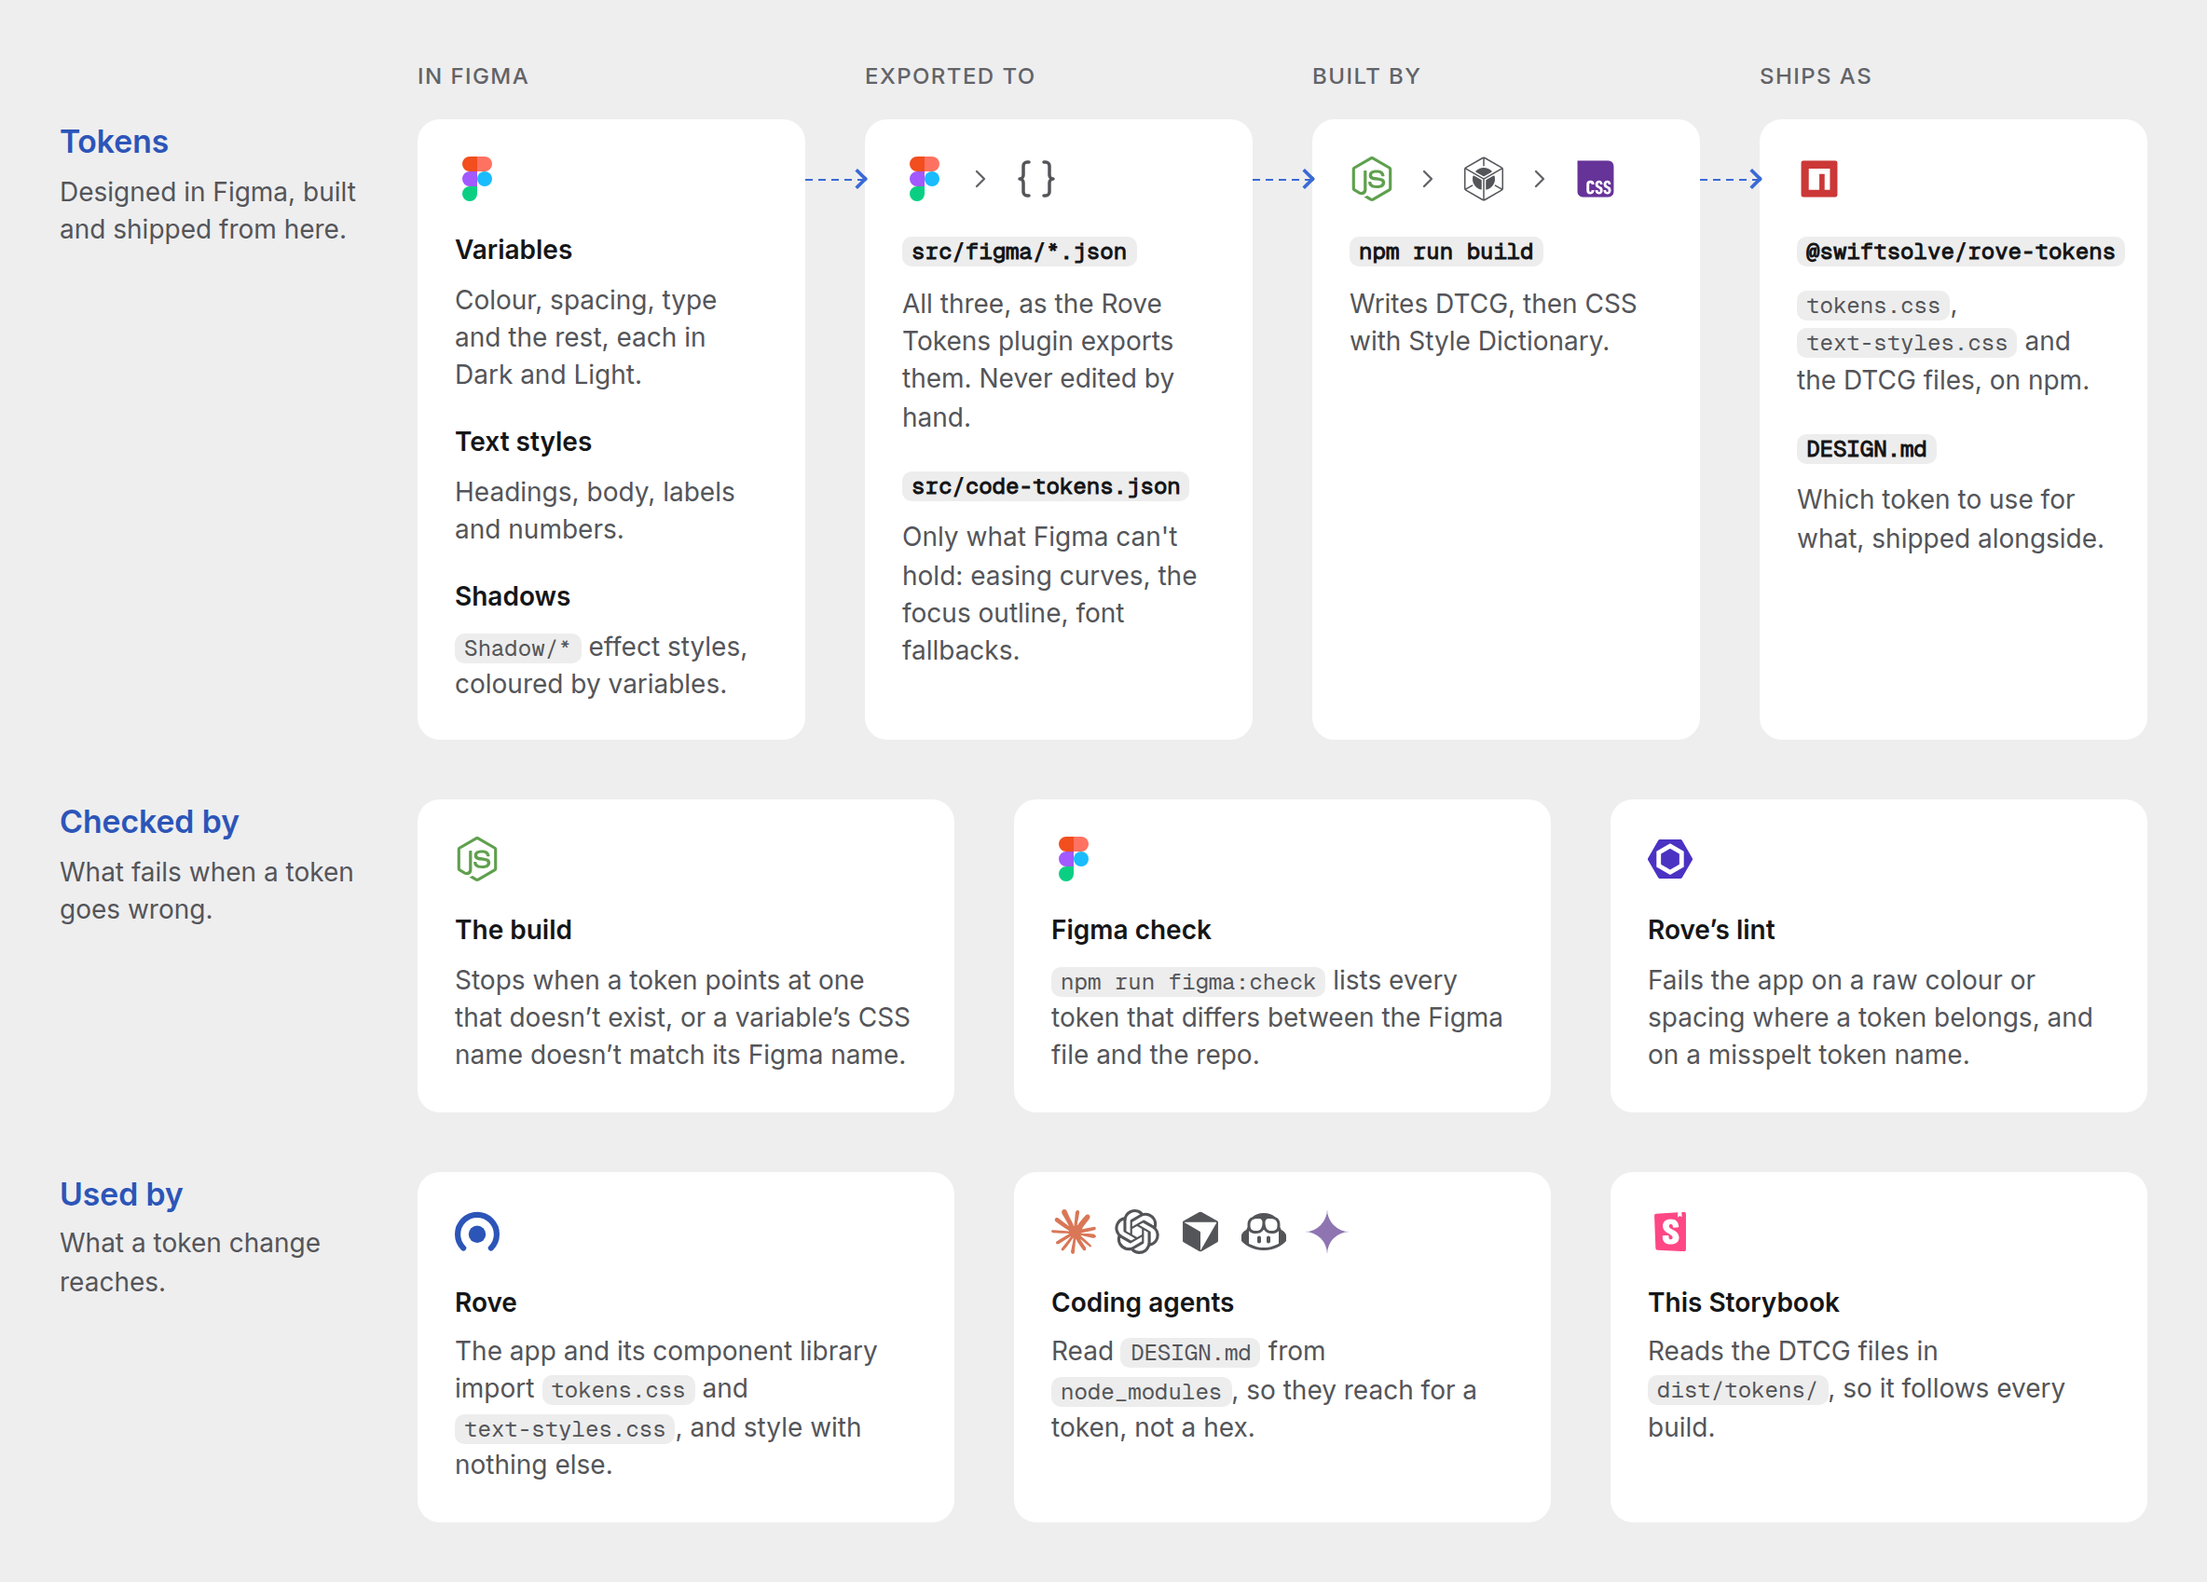
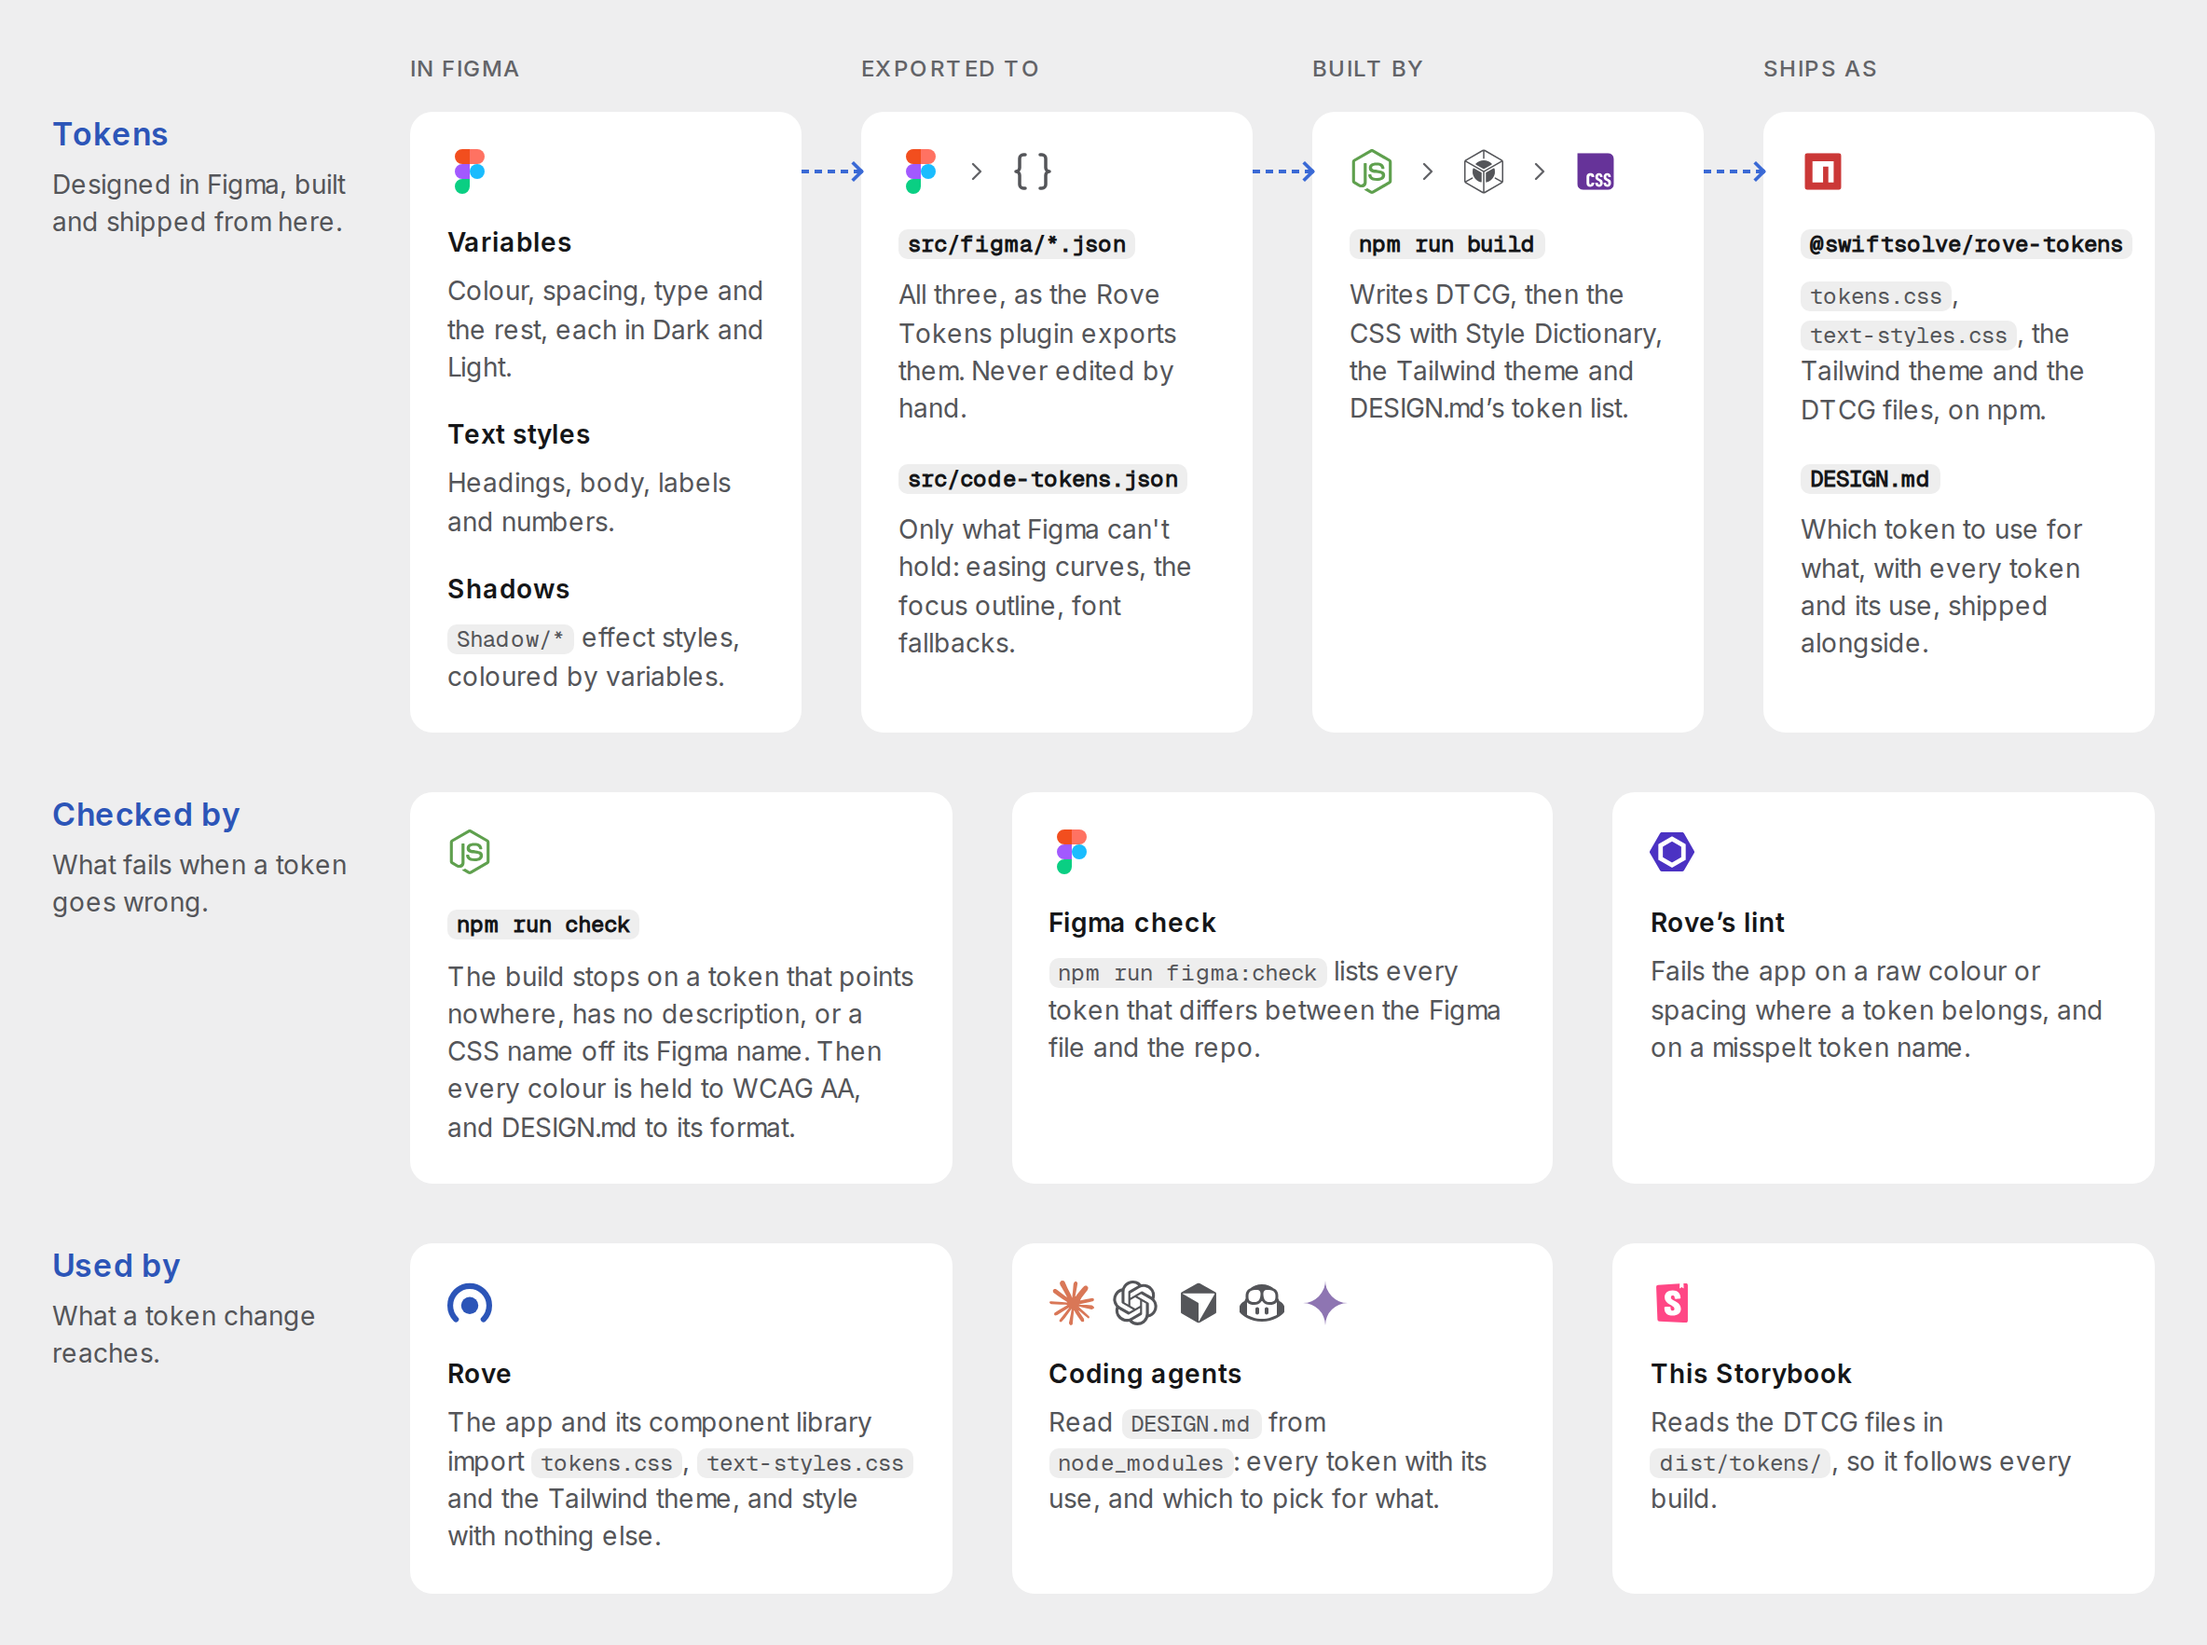
docs: the Introduction diagram and README's capture of it show the Tailwind theme, npm run check's checks, and DESIGN.md as the token list

diff --git a/packages/tokens/stories/introduction.stories.jsx b/packages/tokens/stories/introduction.stories.jsx
@@ -255,7 +255,7 @@ const PIPELINES = [
         items: [
           {
             name: '`npm run build`',
-            body: 'Writes DTCG, then CSS with Style Dictionary.',
+            body: 'Writes DTCG, then the CSS with Style Dictionary, the Tailwind theme and DESIGN.md’s token list.',
           },
         ],
       },
@@ -280,8 +280,8 @@ const PIPELINES = [
 const CHECKS = [
   {
     icon: 'node',
-    name: 'The build',
-    body: 'Stops when a token points at one that doesn’t exist, or a variable’s CSS name doesn’t match its Figma name.',
+    name: '`npm run check`',
+    body: 'The build stops on a token that points nowhere, has no description, or a CSS name off its Figma name. Then every colour is held to WCAG AA, and DESIGN.md to its format.',
   },
   {
     icon: 'figma',
@@ -299,13 +299,13 @@ const CONSUMERS = [
   {
     icon: 'rove',
     name: 'Rove',
-    body: 'The app and its component library import `tokens.css` and `text-styles.css`, and style with nothing else.',
+    body: 'The app and its component library import `tokens.css`, `text-styles.css` and the Tailwind theme, and style with nothing else.',
     href: COMPONENTS,
   },
   {
     icons: ['claude', 'openai', 'cursor', 'copilot', 'gemini'],
     name: 'Coding agents',
-    body: 'Read `DESIGN.md` from `node_modules`, so they reach for a token, not a hex.',
+    body: 'Read `DESIGN.md` from `node_modules`: every token with its use, and which to pick for what.',
   },
   {
     icon: 'storybook',

diff --git a/packages/tokens/README.md b/packages/tokens/README.md
@@ -102,7 +102,7 @@ To run Rove Tokens locally, `npm run storybook`. It opens on <http://localhost:6
 
 <picture>
   <source media="(prefers-color-scheme: dark)" srcset="docs/assets/how-it-works-dark.png">
-  <img src="docs/assets/how-it-works-light.png" width="100%" alt="Tokens: variables, text styles and shadows in Figma are exported to src/figma/*.json (with src/code-tokens.json beside them), built by npm run build, and ship as @swiftsolve/rove-tokens and DESIGN.md. Checked by the build, the Figma check and Rove's lint. Used by Rove, coding agents and the Storybook.">
+  <img src="docs/assets/how-it-works-light.png" width="100%" alt="Tokens: variables, text styles and shadows in Figma are exported to src/figma/*.json (with src/code-tokens.json beside them), built by npm run build, and ship as @swiftsolve/rove-tokens (tokens.css, text-styles.css, the Tailwind theme and DTCG) and DESIGN.md. Checked by npm run check, the Figma check and Rove's lint. Used by Rove, coding agents and the Storybook.">
 </picture>
 
 The diagram is the [Storybook's Introduction](https://rove.swiftsolve.net/storybook/tokens/). [What's where](#whats-where) lists the scripts behind each step.
